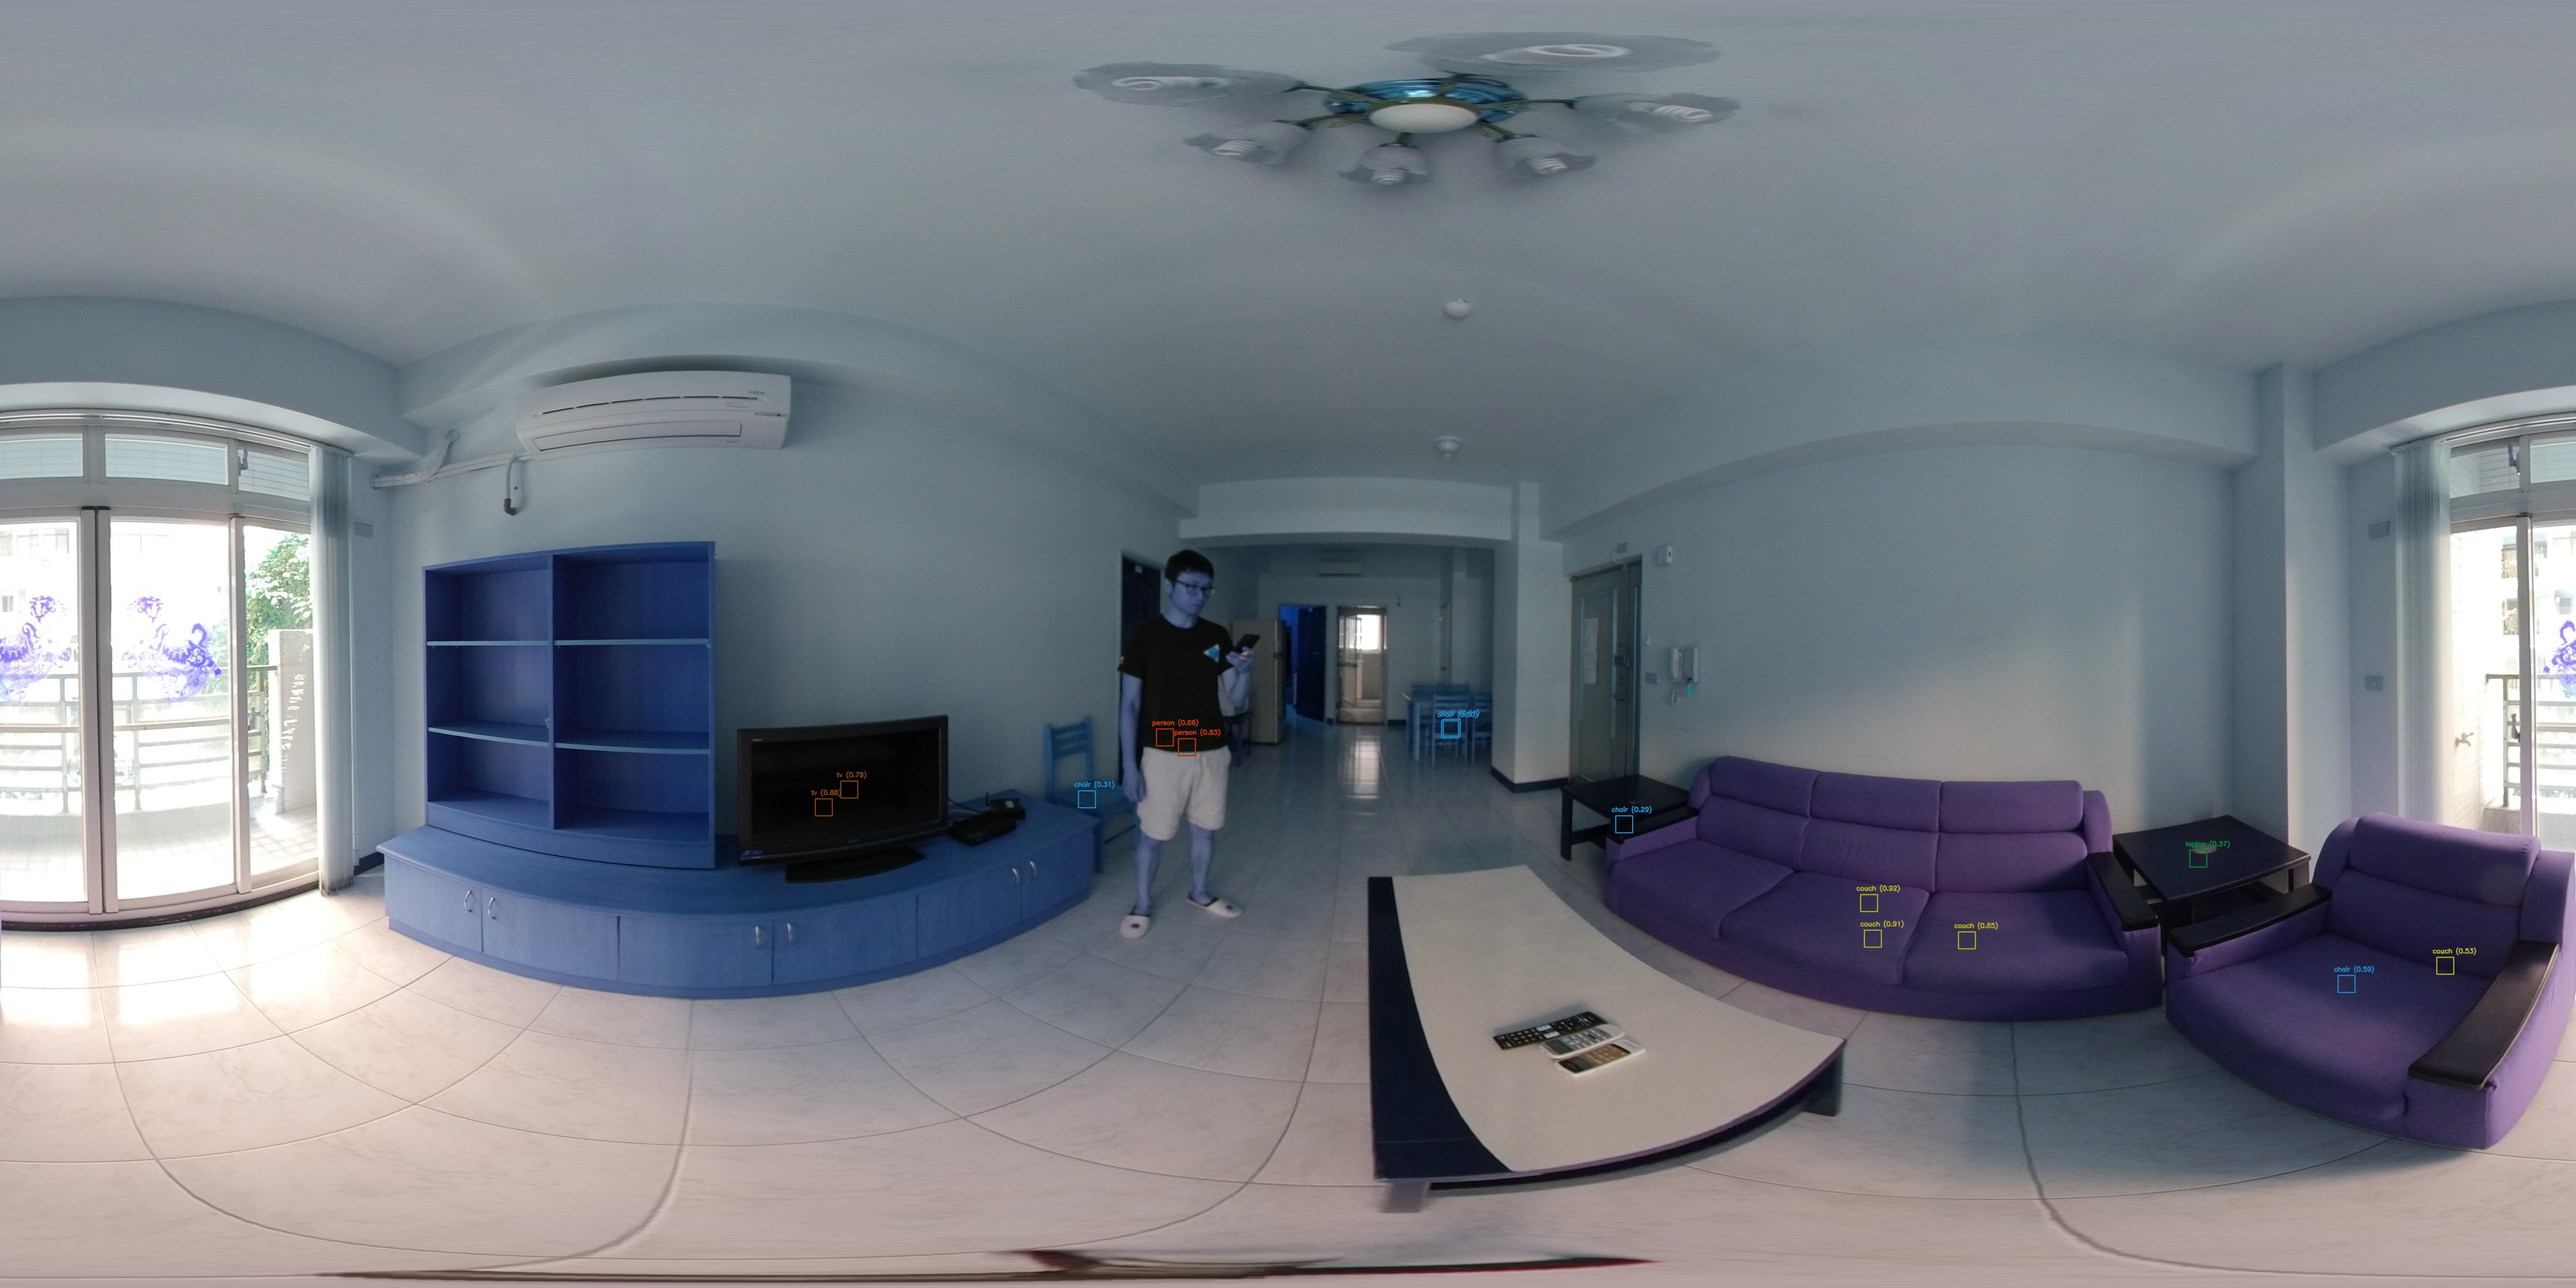
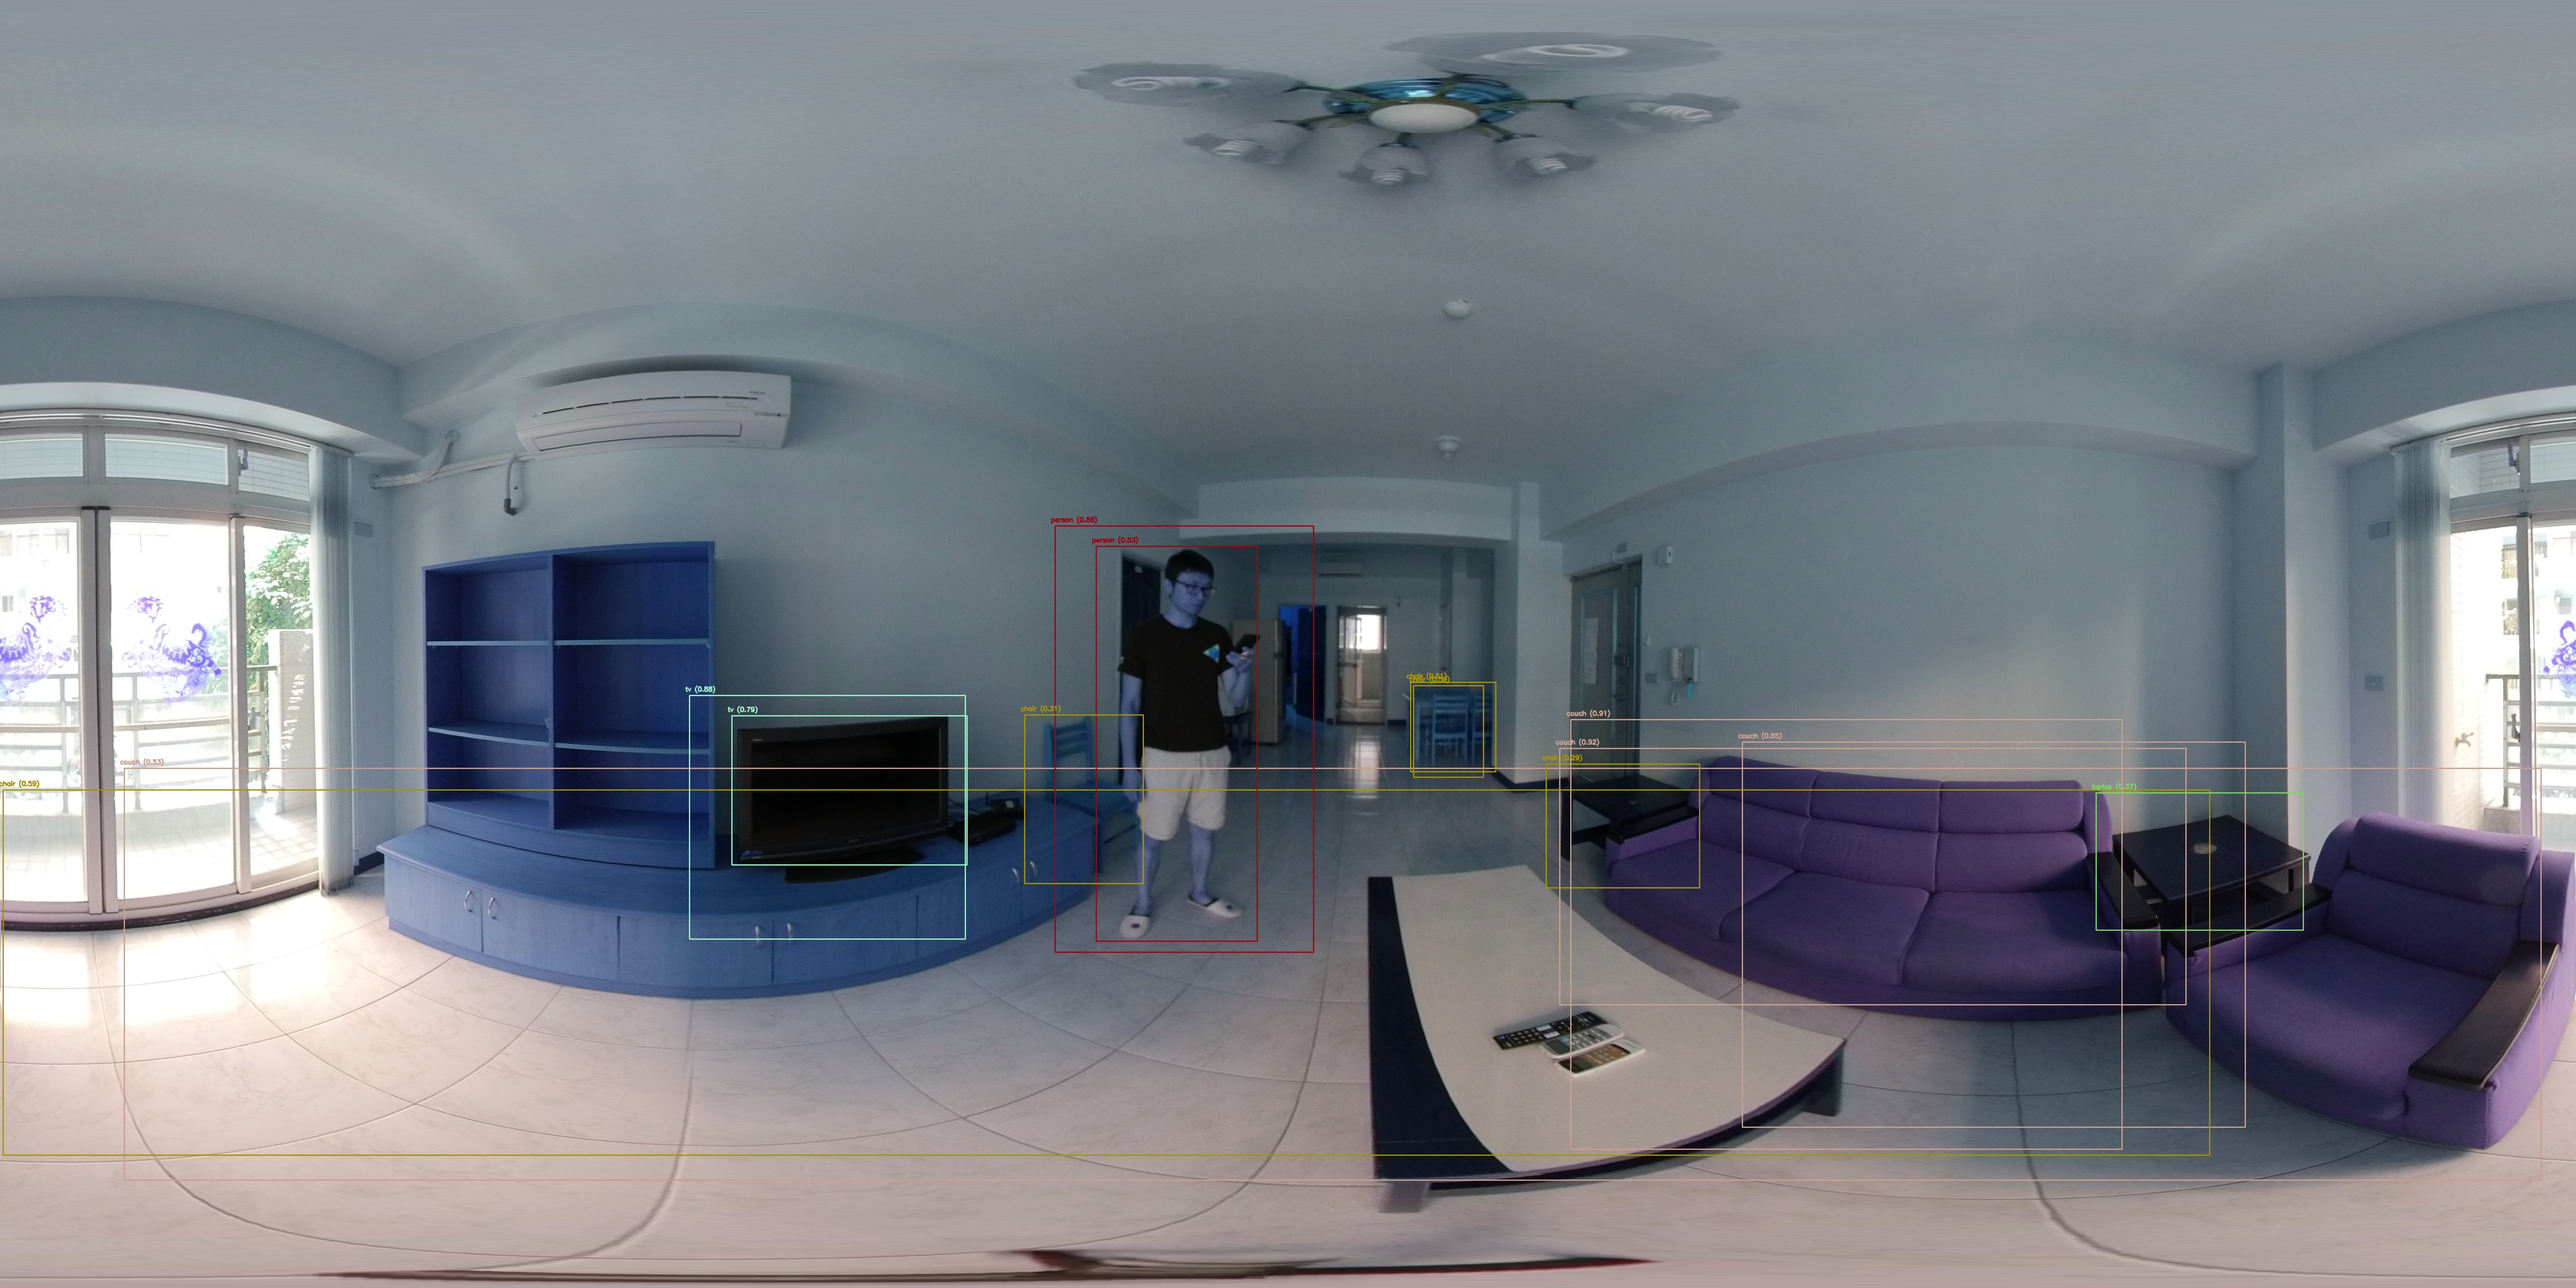
Added minimum bounding box frame on full image - needs clean up and soft NMS

diff --git a/stereo.py b/stereo.py
@@ -275,13 +275,13 @@ def stereo_bounding_boxes_to_panorama(frame_detections_with_meta, panorama_path,
             scale = detection['scale']
 
             # Get box coordinates for x (x, x + w) and y (y, y + h) from the stereographic image
-            box_coord_x = round((box[0] * scale + (box[0] + box[2]) * scale) / 2)
-            box_coord_y = round((box[1] * scale + (box[1] + box[3]) * scale) / 2)
+            box_coord_x = np.array([(box[0] * scale), (box[0] + box[2]) * scale])
+            box_coord_y = np.array([(box[1] * scale), (box[1] + box[3]) * scale])
             
             
-            print("Box center coordinate x:")
+            print("Box coordinates for x:")
             print(box_coord_x)
-            print("Box center coordinate y:")
+            print("Box coordinates for y:")
             print(box_coord_y)
 
             # Get the stereographic projection plane coordinates from the stereographic image
@@ -290,9 +290,14 @@ def stereo_bounding_boxes_to_panorama(frame_detections_with_meta, panorama_path,
 
             # Set array of y values from -H/2 to H/2 so that 0 is in center of plane
             y_plane = pano_pixel_H_range / 2 - box_coord_y * (H_step_size)
+
+            x_grid, y_grid = np.meshgrid(x_plane, y_plane, indexing="xy")
             
-            x_array.append(x_plane)
-            y_array.append(y_plane)
+            print("X grid: ", x_grid)
+            print("Y grid: ", y_grid)
+
+            x_array.append(x_grid)
+            y_array.append(y_grid)
 
         print("Frame detection yaw: " + str(frame_detections['yaw']))
         print("Frame detection pitch: " + str(frame_detections['pitch']))
@@ -322,37 +327,29 @@ def stereo_bounding_boxes_to_panorama(frame_detections_with_meta, panorama_path,
             class_id = frame_detection['class_id']
             confidence = frame_detection['confidence']
 
-            draw_bounding_box(
-                pano_array,
-                class_id,
-                confidence,
-                round(U[0] - 20),
-                round(V[0] - 20),
-                round(U[0] + 20),
-                round(V[0] + 20),
-            )
+            for j in range(len(U)):
 
-            # Take the smallest x and y value for top left corner and largest x and y value for the bottom right corner 
-            x = min(U)
-            y = min(V)
-            x_plus_w = max(U)
-            y_plus_h = max(V)
+                # Take the smallest x and y value for top left corner and largest x and y value for the bottom right corner 
+                x_pano = min(U)
+                y_pano = min(V)
+                x_plus_w_pano = max(U)
+                y_plus_h_pano = max(V)
 
-            # Round to nearest integer for convert for pixels
-            x = round(x)
-            y = round(y)
-            x_plus_w = round(x_plus_w)
-            y_plus_h = round(y_plus_h)
+                # Round to nearest integer for convert for pixels
+                x_pano = round(x_pano)
+                y_pano = round(y_pano)
+                x_plus_w_pano = round(x_plus_w_pano)
+                y_plus_h_pano = round(y_plus_h_pano)
 
-            # draw_bounding_box(
-            #     pano_array,
-            #     class_id,
-            #     confidence,
-            #     x,
-            #     y,
-            #     x_plus_w,
-            #     y_plus_h,
-            # )
+                draw_bounding_box(
+                    pano_array,
+                    class_id,
+                    confidence,
+                    x_pano,
+                    y_pano,
+                    x_plus_w_pano,
+                    y_plus_h_pano,
+                )
 
     # Return the final annotated pano_array
     return pano_array
